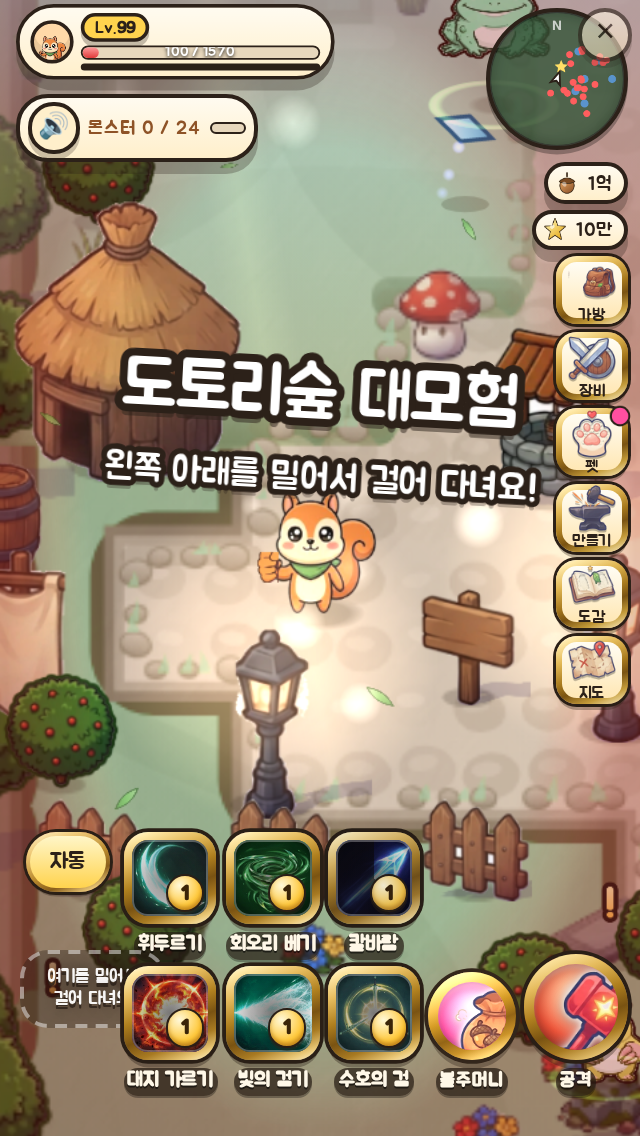
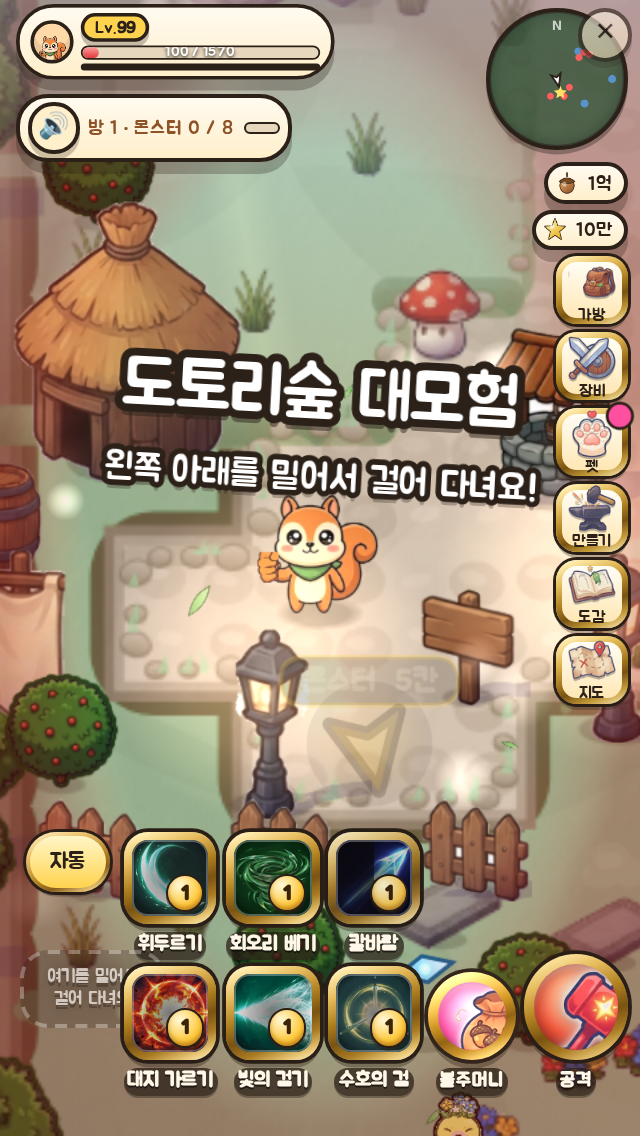
던전 3방 구조(던파식) + 무기 계열 재분류
1) 던전 3방 구조
   - buildWorld: spawn→camp0→문1→camp1→문2→camp2/arena→exitGate 순서로 통일
     (우회 경로 2개 제거 — 예전엔 문을 안 거치고 다음 방 앞까지 갈 수 있었다)
   - S.prog 새 필드 없이 기존 pg.kills 누적값에 34%/67%/100% 문턱만 추가
     (증가 코드는 한 곳도 안 건드림 → 기존 세이브 100% 호환)
   - 방2/방3 캠프는 문이 열리기 전엔 몬스터가 안 나옴(updateCamps)
   - objTarget()이 잠긴 방을 가리키지 않도록 수정
   - 미니맵에 문1/문2 아이콘 + 잠김 표시 추가
   - connectWorld() goals 에 문1/문2 추가 (기존 도달성 보장 인프라 재사용)
   - ⚠ 발견한 버그: spreadCamps()가 랜드마크 캠프 3곳 외에 보너스 캠프 6곳을
     맵 전역에 무작위로 흩뿌리고 있었다(WD.camps.length===9). 이 캠프들은 어느 방에도
     안 걸려 있어 문 잠긴 상태에서도 몬스터가 나왔다 — 비활성화함
   - 검증: t_room3.js 신규 작성(8종 지형×보스/중간보스/일반 9개 장, 81개 체크 전부 통과)
     + t_regress 25/25 + t_nan + t_static + 렌더 스크린샷 눈으로 확인

2) 무기 계열 재분류 (pole → pole + staff)
   - t_audit3 감사 로그 기준: 얼굴·몸통 겹침 18/48종 중 13종이 옛 pole 계열(13종)에 몰림
   - '찌르는 장병기'(창·낫·미늘창·삼지창·사슬낫)와 '세워 드는 지팡이류'
     (지팡이·룬석장·별지팡이·빗자루·낚싯대·붓·우산)가 자세 규칙 하나를 억지로 같이 씀
   - staff 계열 분리 + 임시 수치(원리④ 자세 그림 나오기 전까지는 완전 해결 아님, 주석 명시)
   - 측정: 문제 18/48 → 17/48, 빗자루 완전 해결, 지팡이/룬석장/낚싯대/별지팡이 겹침 항목 절반으로 감소
   - 근본 해결(장병기가 얼굴 안 지나가게)은 마젠타 봉 자세 시트(원리④) 필요 — AI 그림 생성 필요,
     이번 세션은 Gemini 접근(Chrome 확장 연결)이 막혀 있어 여기까지만 진행

diff --git a/t_room3.js b/t_room3.js
@@ -1,0 +1,73 @@
+// 던전 3방 구조 검증 — 8종 지형 × 여러 장(일반/중간보스/대장보스)에 대해
+// 1) gate1/gate2/exitGate/arenaGate 가 전부 걸을 수 있는 타일 위에 있는지 (connectWorld 보장)
+// 2) 누적 처치 수에 따라 문이 순서대로만 열리는지 (34%→67%→100%)
+// 3) 잠긴 방의 캠프는 몬스터가 안 나오는지
+// 4) objTarget() 이 잠긴 방을 가리키지 않는지
+const {chromium}=require('playwright');
+const F='file:///root/toriforest/dotorisup.html';
+let pass=0, fail=0;
+function ok(n,c,d){ if(c){pass++;} else {fail++; console.log('  ❌ '+n+(d?'  → '+d:''));} }
+
+(async()=>{
+  const b=await chromium.launch();
+  const p=await b.newPage({viewport:{width:412,height:846},deviceScaleFactor:2,isMobile:true,hasTouch:true});
+  p.on('pageerror',e=>{fail++;console.log('  ❌ pageerror:',e.message);});
+  await p.goto(F);
+  await p.waitForFunction('window.__TORI&&window.__TORI.ready===true',{timeout:60000});
+
+  // 8종 지형이 나오는 장을 고른다 (chapTerrain 은 장 번호로 결정되므로 0~79장 훑어서 8종 각 1개 이상 확보)
+  const picks = await p.evaluate(()=>{
+    const T=window.__TORI;
+    const seen={}; const out=[];
+    for(let c=0;c<160;c++){
+      const t=T.chapTerrain(c);
+      if(seen[t]===undefined){ seen[t]=c; out.push(c); }
+      if(out.length>=8) break;
+    }
+    for(let c=0;c<40;c++){ if(T.chapIsBoss(c)){ out.push(c); break; } }
+    for(let c=0;c<40;c++){ if(T.chapIsMid(c)){ out.push(c); break; } }
+    out.push(0);
+    return [...new Set(out)];
+  });
+  console.log('검사 대상 장:', picks.join(','));
+
+  for(const c of picks){
+    const r = await p.evaluate((c)=>{
+      const T=window.__TORI;
+      T.enterChapter(c);
+      const WD=T.WD;
+      const out={c, terrain:T.chapTerrain(c), isBoss:T.chapIsBoss(c), isMid:T.chapIsMid(c)};
+      out.gate1Walkable = T.walkTile(Math.floor(WD.gate1.x/T.TS),Math.floor(WD.gate1.y/T.TS));
+      out.gate2Walkable = T.walkTile(Math.floor(WD.gate2.x/T.TS),Math.floor(WD.gate2.y/T.TS));
+      out.exitWalkable  = T.walkTile(Math.floor(WD.exitGate.x/T.TS),Math.floor(WD.exitGate.y/T.TS));
+      const pg=T.prog(); pg.kills=0; T.applyProgress();
+      out.initG1=WD.gate1.open; out.initG2=WD.gate2.open;
+      out.n1=T.chapRoomNeed(c,1); out.n2=T.chapRoomNeed(c,2); out.n3=T.chapKillNeed(c);
+      out.orderOk = out.n1 < out.n2 && out.n2 <= out.n3;
+      pg.kills=out.n1; T.applyProgress();
+      out.afterN1_g1=WD.gate1.open; out.afterN1_g2=WD.gate2.open;
+      pg.kills=out.n2; T.applyProgress();
+      out.afterN2_g1=WD.gate1.open; out.afterN2_g2=WD.gate2.open;
+      pg.kills=0; T.applyProgress();
+      T.clearEntities();
+      for(let t=0;t<40;t++) T.updateCamps(1/30);
+      out.campsAliveWhileLocked = WD.camps.map(cp=>cp.alive);
+      const tg=T.objTarget();
+      function same(a,b){ return a&&Math.abs(a.x-b.x)<1&&Math.abs(a.y-b.y)<1; }
+      out.targetsLockedCamp = tg && (same(tg,WD.camps[1])||same(tg,WD.camps[2]));
+      return out;
+    }, c);
+    ok(`[c${c} t${r.terrain}] gate1 걷기가능`, r.gate1Walkable, JSON.stringify(r));
+    ok(`[c${c}] gate2 걷기가능`, r.gate2Walkable);
+    ok(`[c${c}] exitGate 걷기가능`, r.exitWalkable);
+    ok(`[c${c}] 목표치 순서(n1<n2<=n3)`, r.orderOk, `n1=${r.n1} n2=${r.n2} n3=${r.n3}`);
+    ok(`[c${c}] 초기 문1,2 잠김`, r.initG1===false && r.initG2===false);
+    ok(`[c${c}] n1 채움→문1만 열림`, r.afterN1_g1===true && r.afterN1_g2===false, JSON.stringify(r));
+    ok(`[c${c}] n2 채움→문1,2 다 열림`, r.afterN2_g1===true && r.afterN2_g2===true);
+    ok(`[c${c}] 방1 잠김중 camps[1]/[2] 스폰 0`, r.campsAliveWhileLocked[1]===0 && r.campsAliveWhileLocked[2]===0, JSON.stringify(r.campsAliveWhileLocked));
+    ok(`[c${c}] 목표 화살표가 잠긴 방 안 가리킴`, r.targetsLockedCamp===false);
+  }
+  console.log(`\n═══ 통과 ${pass} / 실패 ${fail} ═══`);
+  await b.close();
+  process.exit(fail?1:0);
+})();

diff --git a/t_shot_boss.js b/t_shot_boss.js
@@ -1,0 +1,21 @@
+const {chromium}=require('playwright');
+const F='file:///root/toriforest/dotorisup.html';
+(async()=>{
+  const b=await chromium.launch();
+  const p=await b.newPage({viewport:{width:412,height:846},deviceScaleFactor:2,isMobile:true,hasTouch:true});
+  await p.goto(F);
+  await p.waitForFunction('window.__TORI&&window.__TORI.ready===true',{timeout:60000});
+  const info = await p.evaluate(()=>{
+    const T=window.__TORI;
+    T.beginPlay(); T.enterChapter(9);   // 9 = 첫 대장 보스 장 (9%10===9)
+    const pg=T.prog();
+    pg.kills=T.chapKillNeed(9); T.applyProgress();  // 쿼터 달성 → 아레나 문 열림
+    return {chap:9, isBoss:T.chapIsBoss(9), arenaOpen:T.WD.arena?true:false,
+      g1:T.WD.gate1.open, g2:T.WD.gate2.open, exitOpen:T.WD.exitGate.open};
+  });
+  console.log(JSON.stringify(info));
+  await p.evaluate(()=>{ const b=document.querySelector('[data-act="map"], .btnMap, #btnMap'); if(b) b.click(); });
+  await p.waitForTimeout(200);
+  await p.screenshot({path:'/tmp/boss_map.png'});
+  await b.close();
+})();

diff --git a/t_shot_room.js b/t_shot_room.js
@@ -1,0 +1,22 @@
+const {chromium}=require('playwright');
+const F='file:///root/toriforest/dotorisup.html';
+(async()=>{
+  const b=await chromium.launch();
+  const p=await b.newPage({viewport:{width:412,height:846},deviceScaleFactor:2,isMobile:true,hasTouch:true});
+  await p.goto(F);
+  await p.waitForFunction('window.__TORI&&window.__TORI.ready===true',{timeout:60000});
+  await p.evaluate(()=>{
+    const T=window.__TORI;
+    T.beginPlay(); T.enterChapter(0);
+    const pg=T.prog(); pg.kills=0; T.applyProgress();
+    T.P.x=T.WD.spawn.x; T.P.y=T.WD.spawn.y;
+    T.cam.x=T.P.x; T.cam.y=T.P.y;
+  });
+  await p.waitForTimeout(300);
+  await p.screenshot({path:'/tmp/room_spawn.png'});
+  await p.evaluate(()=>{ const b=document.querySelector('[data-act="map"], .btnMap, #btnMap'); if(b) b.click(); });
+  await p.waitForTimeout(200);
+  await p.screenshot({path:'/tmp/room_map.png'});
+  await b.close();
+  console.log('저장 완료');
+})();

diff --git a/t_shot_room2.js b/t_shot_room2.js
@@ -1,0 +1,18 @@
+const {chromium}=require('playwright');
+const F='file:///root/toriforest/dotorisup.html';
+(async()=>{
+  const b=await chromium.launch();
+  const p=await b.newPage({viewport:{width:412,height:846},deviceScaleFactor:2,isMobile:true,hasTouch:true});
+  await p.goto(F);
+  await p.waitForFunction('window.__TORI&&window.__TORI.ready===true',{timeout:60000});
+  const info = await p.evaluate(()=>{
+    const T=window.__TORI;
+    T.beginPlay(); T.enterChapter(0);
+    const pg=T.prog(); pg.kills=0; T.applyProgress();
+    const WD=T.WD;
+    return {gate1:WD.gate1, gate2:WD.gate2, exitGate:{x:WD.exitGate.x,y:WD.exitGate.y,open:WD.exitGate.open},
+      camps:WD.camps.map(c=>({x:c.x,y:c.y,mob:c.mob})), arena:WD.arena, spawn:WD.spawn};
+  });
+  console.log(JSON.stringify(info,null,1));
+  await b.close();
+})();
